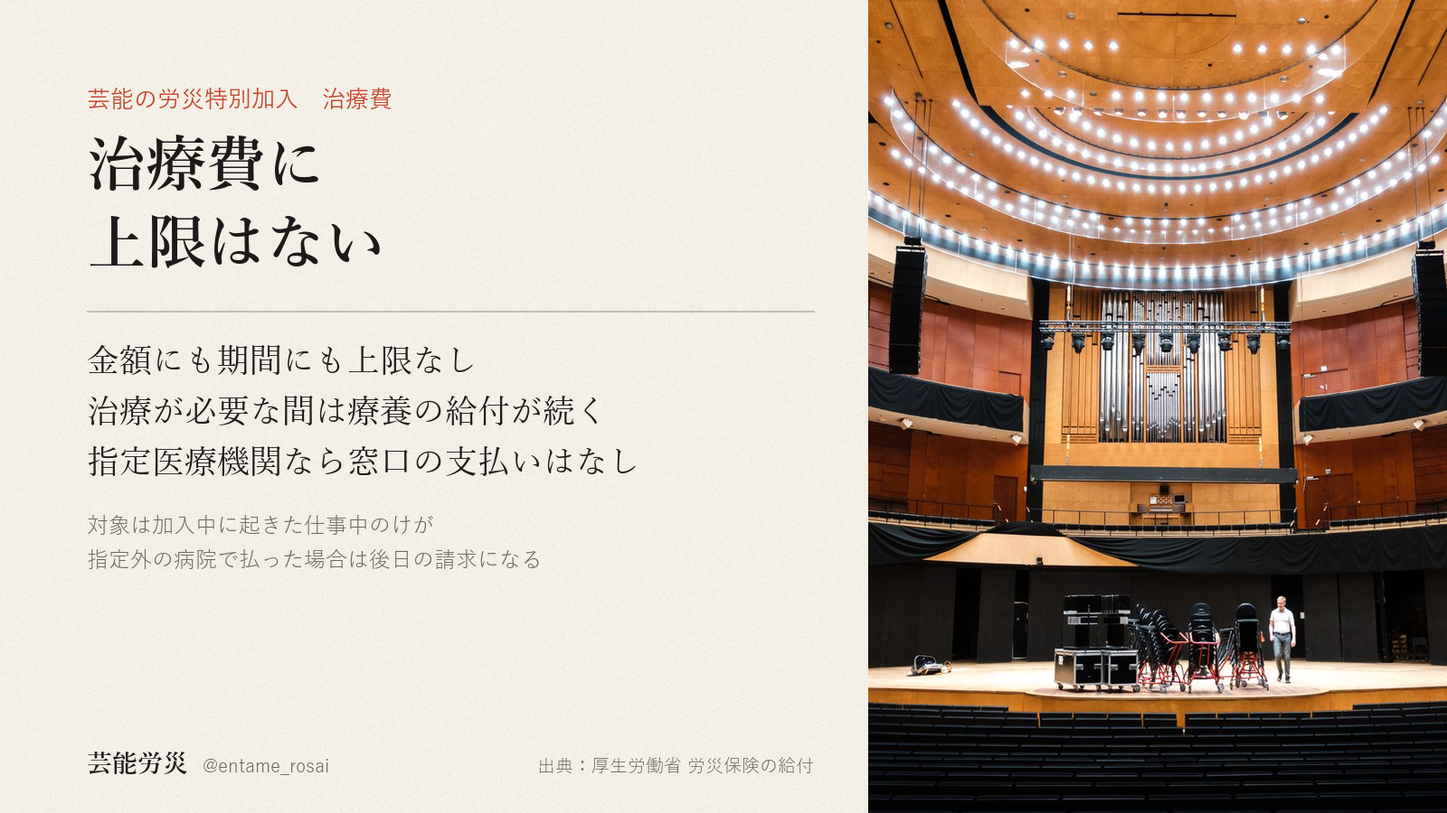
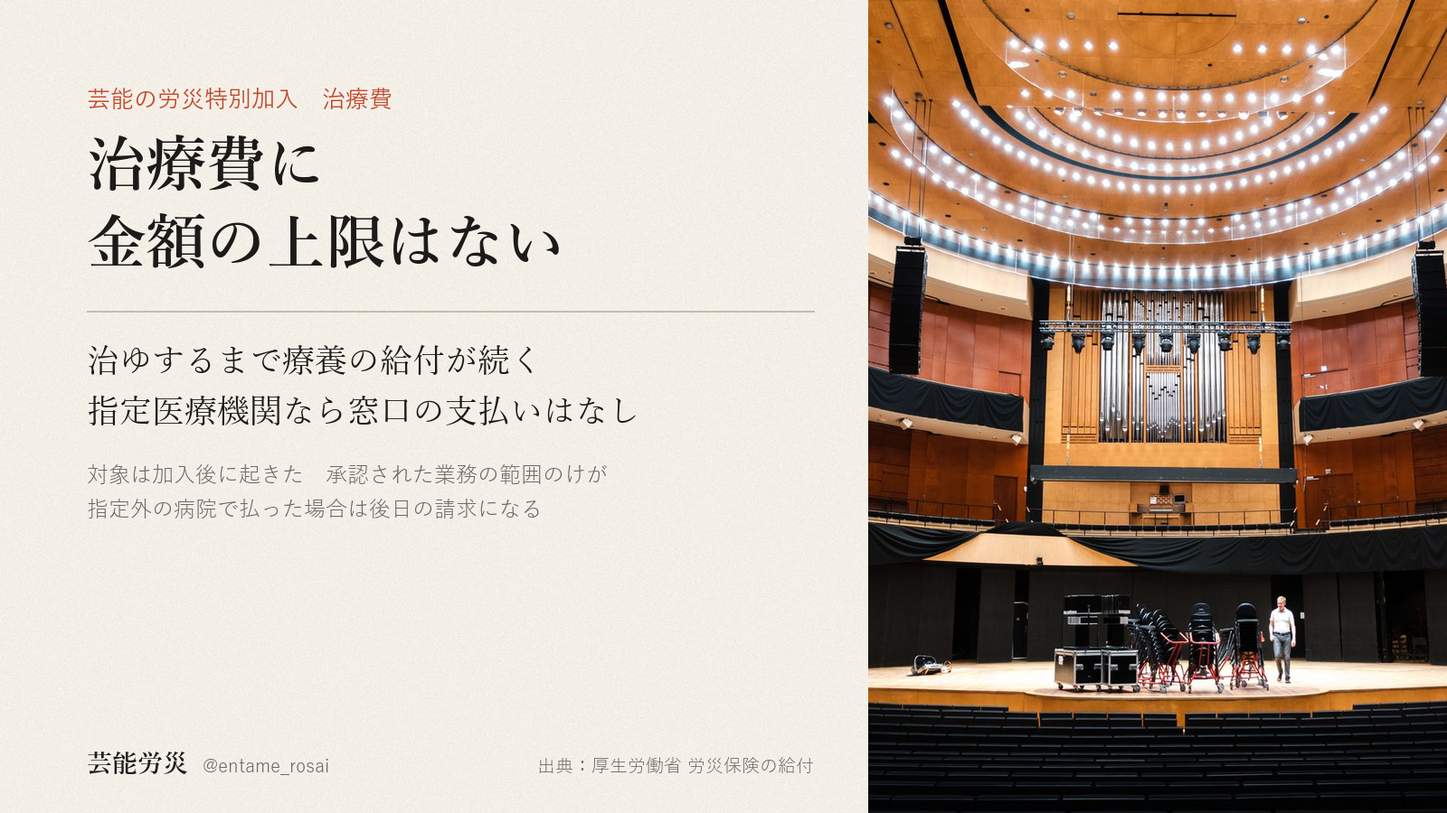
投稿デスク更新 2026-11-26 修正版

Changed region(s): [[0.0625, 0.4044, 0.4375, 0.7156], [0.0625, 0.2489, 0.4062, 0.3422]]

diff --git a/index.html b/index.html
@@ -351,7 +351,7 @@ dialog img{width:100%;height:auto;border-radius:18px;display:block}
 <div class="toast" id="toast">コピーしました</div>
 <dialog id="zoom"><img alt=""></dialog>
 
-<script id="desk-data" type="application/json">{"account":"@entame_rosai","days":[{"date":"2026-11-26","label":"11月26日（木）　今日","items":[{"key":"ig","date":"2026-11-01","label":"Instagram（@entame_rosai）","account":"@entame_rosai","text":"労災の特別加入は、申込のときに「何月から入るか」「何か月入るか」「給付基礎日額をいくらにするか」の3つを自分で決めます。\n\n何月から入るかは、11月1日時点の申込フォームでは2026年11月から2027年3月までの中から選べます。何か月入るかは1か月から。公演や撮影の期間に合わせて決められます。\n\n給付基礎日額は、補償の基準になる1日あたりの額です。3,500円から25,000円までの16段階から、実際の収入とは切り離して自分で選びます。\n\n毎月の支払いは、日額10,000円を選んだ場合で月1,600円。内訳は保険料912円、組合費500円、手数料188円です。ほかに入会事務手数料2,000円が初月だけかかるので、初月の支払いは3,600円です。保険料912円の部分は社会保険料控除の対象です。\n\nひとつ大事なことがあります。さかのぼって入ることはできません。補償は申込で選んだ月から始まり、それより前のけがは対象になりません。現場の予定が決まったら、先に手続きを済ませておく形です。\n\n手続きはプロフィール欄のサイトからできます。迷う点があれば、コメントに書いてもらえれば調べます。\n\n私たちは東京労働局長の承認を受けた労災保険特別加入団体で、加入の受付もしている当事者です。そのうえで書いています。特別加入を扱う団体は、私たちのほかにもあります。\n\n※給付の可否・金額は個別の状況により労働基準監督署が判断します。\n※金額は、給付基礎日額10,000円を選んだ場合の例です。","chars":628,"lines":16,"hashtags":0,"limit":0,"status":"生成済・未投稿（本人の投稿許可あり。Chrome で instagram.com を開く操作が承認待ちのまま5分応答がなく送信されず。次に本人がいるときに投稿する）","url":"","images":[{"name":"01.png","path":"assets/2026-11-01/instagram/01.png"},{"name":"02.png","path":"assets/2026-11-01/instagram/02.png"},{"name":"03.png","path":"assets/2026-11-01/instagram/03.png"},{"name":"04.png","path":"assets/2026-11-01/instagram/04.png"},{"name":"05.png","path":"assets/2026-11-01/instagram/05.png"},{"name":"06.png","path":"assets/2026-11-01/instagram/06.png"},{"name":"07.png","path":"assets/2026-11-01/instagram/07.png"}],"alt":"--- 1枚目 ---\n暗い劇場の舞台の縁に腰かけ、赤い客席を見ている人の後ろ姿の写真。文字：フリーランスの労災保険。加入の手続き。申込で決めることと毎月の支払い。さかのぼって入ることはできないので、先に手続きの中身をまとめました。芸能労災 @entame_rosai 01/07\n\n--- 2枚目 ---\n上半分は夕方の住宅街の路上で、ブームマイクを掲げる録音係とカメラを担ぐ撮影係の後ろ姿の写真。下は生成り色の紙面。文字：申込で決めること1。何月から入るか。開始月は申込のときに選びます。11月1日時点では、2026年11月から2027年3月までの中から選べます。補償は、選んだ月から始まります。出典：当団体申込フォーム（11月1日時点）。02/07\n\n--- 3枚目 ---\n右に、屋外のカメラ機材とモニターを操作する手の縦長写真。左は紙面。文字：申込で決めること2。何か月入るか。加入期間は1か月から選べます。公演や撮影の期間に合わせて決められます。何月から何か月かを申込のときにあわせて決めます。出典：当団体申込フォーム（11月1日時点）。03/07\n\n--- 4枚目 ---\n文字だけの紙面。申込で決めること3。16段階。給付基礎日額を3,500円から25,000円まで。4列の一覧：3,500、4,000、5,000、6,000、7,000、8,000、9,000、10,000（朱色）、12,000、14,000、16,000、18,000、20,000、22,000、24,000、25,000。単位は円。補償の基準になる1日あたりの額で、実際の収入とは切り離して自分で選びます。朱色の10,000円を次のページの例に使います。出典：労災保険法（特別加入）。04/07\n\n--- 5枚目 ---\n文字だけの紙面。毎月の支払い。日額10,000円なら月1,600円。表：内訳／月額。保険料 912円。組合費 500円。手数料 188円。合計 1,600円。ほかに入会事務手数料2,000円が初月だけかかります。初月の支払いは3,600円です。支払いのうち保険料912円の部分は、社会保険料控除の対象です。出典：当団体申込フォーム（11月1日時点）。05/07\n\n--- 6枚目 ---\n上に、黒い服のスタッフ2人が大きな機材ケースを運ぶ後ろ姿の写真の帯。下は紙面。文字：大事なこと。さかのぼって入ることはできない。補償の開始：申込で選んだ月から。それより前のけが：対象外。現場の予定が決まったら：先に手続き。手続きはプロフィール欄のサイトから。迷う点があれば、コメントに書いてもらえれば調べます。出典：当団体申込フォーム（11月1日時点）。06/07\n\n--- 7枚目 ---\n舞台袖の衣装ラックと、パイプ椅子の上に開いた台本の写真を暗くした全面。文字：入る月と期間は自分で決められます。何月から何か月入るか、日額をいくらにするか。申込のときに自分で選べます。迷う点があれば、コメントに書いてもらえれば調べます。私たちは東京労働局長の承認を受けた労災保険特別加入団体で、加入の受付もしている当事者です。そのうえで書いています。特別加入を扱う団体は、私たちのほかにもあります。※給付の可否・金額は個別の状況により労働基準監督署が判断します。※金額は、給付基礎日額10,000円を選んだ場合の例です。芸能労災 @entame_rosai 07/07","check":{"errors":[],"warns":[]},"made":"2026-11-01","slot":"2026-11-26"},{"key":"x","date":"2026-11-17","label":"X（@entame_rosai）","account":"@entame_rosai","text":"労災の特別加入は2024年11月から、企業から仕事を受けるフリーランス全般に広がりました。芸能の仕事は2021年4月から対象です。日額10,000円を選んだ場合、11月から5か月で支払総額10,000円（入会事務手数料込み）。（厚生労働省／げいのう労災 申込フォームの試算）","chars":137,"lines":1,"hashtags":0,"limit":140,"status":"（台帳に記載なし）","url":"","images":[{"name":"x_image.png","path":"assets/2026-11-17/x_image/x_image.png"}],"alt":"左は生成りの紙の地に文字、右は暗い舞台の床を紫のスポットライト3灯が照らす写真。文字：芸能の労災特別加入　対象の広がり。芸能の仕事は2021年4月から対象。2024年11月からは企業から仕事を受けるフリーランス全般に広がった。日額10,000円を選んだ場合　11月から5か月で支払総額10,000円（入会事務手数料込み）。金額はげいのう労災 申込フォームの試算。出典：厚生労働省。芸能労災 @entame_rosai","check":{"errors":[],"warns":[]},"made":"2026-11-17","slot":"2026-11-26"}]},{"date":"2026-11-27","label":"11月27日（金）　投稿予定","items":[{"key":"x","date":"2026-11-18","label":"X（@entame_rosai）","account":"@entame_rosai","text":"労災の特別加入で、加入中に起きた仕事中のけがの給付は、すぐに請求しなくても受け取れます。請求の期限は治療費と休業の給付が2年、障がいの給付が5年。数え始めは給付ごとに違い、治療費は払った翌日、障がいは症状が固定した翌日からです。（労災保険法第42条）","chars":125,"lines":1,"hashtags":0,"limit":140,"status":"（台帳に記載なし）","url":"","images":[{"name":"x_image.png","path":"assets/2026-11-18/x_image/x_image.png"}],"alt":"ライブ会場の客席後方で、音響担当の手がミキサー卓のつまみを操作している写真。奥のステージではギターを持った演奏者に照明が当たっている。左側の文字：芸能の労災特別加入　給付の請求。加入中のけがは　すぐでなくても請求できる。給付と請求の期限の表：治療費 2年、休業 2年、障がい 5年。加入前のけがは対象外。数え始めは給付ごとに違う。治療費は払った翌日から　障がいは症状固定の翌日から。出典：労災保険法第42条。芸能労災 @entame_rosai","check":{"errors":[],"warns":[]},"made":"2026-11-18","slot":"2026-11-27"}]},{"date":"2026-11-28","label":"11月28日（土）　投稿予定","items":[{"key":"x","date":"2026-11-19","label":"X（@entame_rosai）","account":"@entame_rosai","text":"労災の特別加入で仕事中にけがをしたとき、労災保険の指定医療機関で治療を受ければ、窓口での支払いはありません。指定外の病院でいったん払った場合も、あとからその費用を請求できます。治療費の扱いは、選んだ給付基礎日額で変わりません。（労災保険法第13条）","chars":124,"lines":1,"hashtags":0,"limit":140,"status":"（台帳に記載なし）","url":"","images":[{"name":"x_image.png","path":"assets/2026-11-19/x_image/x_image.png"}],"alt":"左は生成りの紙の地に文字、右は木の床に座るダンサーの足元の写真（黒いパンツにベージュのバレエシューズ）。文字は「芸能の労災特別加入　仕事中のけがの治療費」「指定医療機関なら　窓口での支払いなし」。左の列「指定医療機関　窓口で　支払いは　なし」、右の列「指定外の病院　いったん払う　その費用を　あとで請求」。下に「治療費の扱いは選んだ給付基礎日額で変わらない」「出典：労災保険法第13条」「芸能労災　@entame_rosai」。","check":{"errors":[],"warns":[]},"made":"2026-11-19","slot":"2026-11-28"}]},{"date":"2026-11-29","label":"11月29日（日）　投稿予定","items":[{"key":"x","date":"2026-11-20","label":"X（@entame_rosai）","account":"@entame_rosai","text":"労災の特別加入は、加入を始める月を申込のときに自分で選びます。対象は加入後の仕事中のけがで、さかのぼって加入はできません。日額10,000円を選んだ場合、5か月で支払総額10,000円です（手数料・入会事務手数料込み）。（労災保険法／当団体申込フォーム）","chars":127,"lines":1,"hashtags":0,"limit":140,"status":"（台帳に記載なし）","url":"","images":[{"name":"x_image.png","path":"assets/2026-11-20/x_image/x_image.png"}],"alt":"左は生成り色の紙の地に文字、右は写真。写真は、客席が無人の劇場で、舞台の縁に腰かけて客席のほうを向く人の後ろ姿。画像の文字：芸能の労災特別加入　加入の始まり／加入を始める月は　申込のときに選ぶ／対象は加入した後の仕事中のけが　さかのぼって加入はできない／日額10000円を選んだ場合　5か月で支払総額10000円（手数料込み）／芸能労災　@entame_rosai／出典：労災保険法／当団体申込フォームの試算","check":{"errors":[],"warns":[]},"made":"2026-11-20","slot":"2026-11-29"}]},{"date":"2026-11-30","label":"11月30日（月）　投稿予定","items":[{"key":"x","date":"2026-11-21","label":"X（@entame_rosai）","account":"@entame_rosai","text":"芸能の特別加入は、健康状態の審査がありません。年齢や持病、体を張る仕事を理由に断られることも、保険料が上がることもありません。対象は加入後の仕事中のけがや病気です。日額10,000円で5か月加入なら総額10,000円（入会事務手数料込み）。（労災保険法／当団体申込フォーム）","chars":137,"lines":1,"hashtags":0,"limit":140,"status":"（台帳に記載なし）","url":"","images":[{"name":"x_image.png","path":"assets/2026-11-21/x_image/x_image.png"}],"alt":"青いマットの稽古場で、黒い練習着の人が背中を向けて脚を大きく開き、ストレッチをしている写真。左側の生成りの紙面に文字。「芸能の労災特別加入　加入のとき」「健康状態の審査はない」。表「加入のとき／特別加入では」：健康状態の審査　なし。年齢や持病　断られない。体を張る仕事　保険料は同じ。対象になるけが　加入後の仕事中。「日額10000円で5か月加入した場合　総額10000円（入会事務手数料込み）」「出典：労災保険法／当団体申込フォームの試算」「芸能労災 @entame_rosai」","check":{"errors":[],"warns":[]},"made":"2026-11-21","slot":"2026-11-30"}]},{"date":"2026-12-01","label":"12月1日（火）　投稿予定","items":[{"key":"x","date":"2026-11-22","label":"X（@entame_rosai）","account":"@entame_rosai","text":"特別加入は給付基礎日額を3,500〜25,000円の16段階から選べます。休業・年金の給付と保険料はこの額で決まり、治療費は同じです。日額10,000円なら働けない日は4日目から1日8,000円、支払いは5か月で計10,000円（入会事務手数料込み）。（労災保険法／申込フォーム）","chars":140,"lines":1,"hashtags":0,"limit":140,"status":"（台帳に記載なし）","url":"","images":[{"name":"x_image.png","path":"assets/2026-11-22/x_image/x_image.png"}],"alt":"左は生成りの紙の上に文字、右は写真。写真は舞台袖の進行卓で、ヘッドセットと進行表に手を置く人の奥に、照明の当たった舞台と俳優が見える。画像の文字：労災の特別加入　給付基礎日額／16段階／3,500円から25,000円まで　自分で選べる／休業や年金の給付と保険料はこの額で決まり　治療費は変わらない／日額10,000円なら働けない日は4日目から1日8,000円／芸能労災 @entame_rosai／出典：労災保険法／当団体申込フォーム","check":{"errors":[],"warns":[]},"made":"2026-11-22","slot":"2026-12-01"}]},{"date":"2026-12-02","label":"12月2日（水）　投稿予定","items":[{"key":"x","date":"2026-11-23","label":"X（@entame_rosai）","account":"@entame_rosai","text":"労災の特別加入の保険料率は、芸能の仕事なら職種で変わりません。俳優もスタントも裏方も0.3%です。支払う額は日額と加入月数で決まり、組合費・手数料・入会事務手数料を含む総額は、申込フォームの試算で確認できます。（厚生労働省 労災保険率）","chars":118,"lines":1,"hashtags":0,"limit":140,"status":"（台帳に記載なし）","url":"","images":[{"name":"x_image.png","path":"assets/2026-11-23/x_image/x_image.png"}],"alt":"楽屋の写真。衣装が掛かったハンガーラックの前に、台本が開いて置かれたパイプ椅子。左は紙色の表で、見出しは「保険料率は職種で変わらない」。俳優 0.3%、スタント 0.3%、裏方 0.3%。支払う額は日額と加入月数で決まる。総額は申込フォームの試算で確認できる。出典：厚生労働省 労災保険率。","check":{"errors":[],"warns":["競合の調査由来かもしれない数字/語: 0.3%　… …芸能の仕事なら職種で変わりません。俳優もスタントも裏方も0.3%です。支払う額は日額と加入月数で決まり、組合費・手数料・…"]},"made":"2026-11-23","slot":"2026-12-02"}]},{"date":"2026-12-03","label":"12月3日（木）　投稿予定","items":[{"key":"x","date":"2026-11-24","label":"X（@entame_rosai）","account":"@entame_rosai","text":"労災の特別加入で、仕事中のけがによる障がいが残ったときの給付は、障がい等級で形が変わります。1〜7級は年金、8〜14級は一時金です。年金は、決まった時期に定期的に支払われます。（労災保険法）","chars":95,"lines":1,"hashtags":0,"limit":140,"status":"（台帳に記載なし）","url":"","images":[{"name":"x_image.png","path":"assets/2026-11-24/x_image/x_image.png"}],"alt":"暗い舞台袖で、台本のような冊子を開いて読む人の後ろ姿の写真。左側に文字。「芸能の労災特別加入　障がいが残ったとき　障がいの給付は等級で形が変わる　1〜7級は年金　8〜14級は一時金　年金は定期的に支払われる　対象は加入中に起きた仕事中のけが　障がい等級は医師の診断をもとに労働基準監督署が決める　出典：労災保険法」","check":{"errors":[],"warns":[]},"made":"2026-11-24","slot":"2026-12-03"}]},{"date":"2026-12-04","label":"12月4日（金）　投稿予定","items":[{"key":"x","date":"2026-11-25","label":"X（@entame_rosai）","account":"@entame_rosai","text":"労災の特別加入で受けられる給付は7種類あります。療養、休業、傷病年金、障がい、介護、遺族、葬祭料。治療から、働けない間の補償、後遺症、その後の暮らしまで、仕事中のけがの先を支える制度です。（厚生労働省 労災保険の給付）","chars":109,"lines":1,"hashtags":0,"limit":140,"status":"（台帳に記載なし）","url":"","images":[{"name":"x_image.png","path":"assets/2026-11-25/x_image/x_image.png"}],"alt":"劇場で脚立に乗り、客席上部の照明を調整する人の後ろ姿の写真。右側に写真、左側に文字。「芸能の労災特別加入　受けられる給付　7種類　療養　休業　傷病年金　障がい　介護　遺族　葬祭料　治療から　働けない間の補償　後遺症まで　仕事中のけがの先を支える制度　出典：厚生労働省 労災保険の給付」","check":{"errors":[],"warns":[]},"made":"2026-11-25","slot":"2026-12-04"}]},{"date":"2026-12-05","label":"12月5日（土）　投稿予定","items":[{"key":"x","date":"2026-11-26","label":"X（@entame_rosai）","account":"@entame_rosai","text":"労災の特別加入で、仕事中のけがの治療費には、金額の上限も期間の上限もありません。指定医療機関なら窓口の支払いはなく、治療が必要な間は療養の給付が続きます。長引く治療でも、費用の心配を先に置かなくていい仕組みです。（厚生労働省 労災保険の給付）","chars":121,"lines":1,"hashtags":0,"limit":140,"status":"（台帳に記載なし）","url":"","images":[{"name":"x_image.png","path":"assets/2026-11-26/x_image/x_image.png"}],"alt":"無人の大ホールの舞台。ステージ上に積まれた椅子と機材ケースの横を、スタッフが一人歩いている。左側の文字：芸能の労災特別加入　治療費。治療費に上限はない。金額にも期間にも上限なし。治療が必要な間は療養の給付が続く。指定医療機関なら窓口の支払いはなし。対象は加入中に起きた仕事中のけが。指定外の病院で払った場合は後日の請求になる。出典：厚生労働省 労災保険の給付。芸能労災 @entame_rosai","check":{"errors":[],"warns":[]},"made":"2026-11-26","slot":"2026-12-05"}]}],"todo":[{"due":"今日","who":"作業者","title":"X（@entame_rosai）の今日の投稿","detail":"画像1枚を添付 → 代替テキストを入れる → 本文を貼る、の順。代替テキストは直近の投稿で入っていません。X は投稿後に足せません。","cid":"c-2026-11-17-x"},{"due":"今日","who":"作業者","title":"Instagram を1本投稿（11/1（日）作成の分）","detail":"画像7枚をこの順で添付し、1枚ずつ代替テキストを入れる。未投稿は1本。前回の公開から1週間あけて1本ずつ。","cid":"c-2026-11-01-ig"},{"due":"未公開のまま","who":"矢部さん","title":"note の記事を公開（09/18作成）","detail":"このデスクには載っていません（note は矢部さんの手元の下書き）。公開するときは見出し画像を必ず設定。","cid":""},{"due":"未公開のまま","who":"矢部さん","title":"note の記事を公開（10/09作成）","detail":"このデスクには載っていません（note は矢部さんの手元の下書き）。公開するときは見出し画像を必ず設定。","cid":""},{"due":"投稿のたび","who":"作業者","title":"投稿URLと名前を、そのカードの欄に保存","detail":"記録が集まらないと、何が出たかを後から確かめられません。","cid":""}],"builtAt":"2026-11-26 08:33","today":"2026-11-26","followers":{"date":"10-13","x":5,"ig":21,"note":0},"hero":"assets/hero.jpg","endpoint":"https://script.google.com/macros/s/AKfycbxhxM75PszpPOX_HDJ4yuBmQSqu1b7CXq2sbCxlqTZ_TyF8hROH2MyKnYNU11avb8UQCA/exec"}</script>
+<script id="desk-data" type="application/json">{"account":"@entame_rosai","days":[{"date":"2026-11-26","label":"11月26日（木）　今日","items":[{"key":"ig","date":"2026-11-01","label":"Instagram（@entame_rosai）","account":"@entame_rosai","text":"労災の特別加入は、申込のときに「何月から入るか」「何か月入るか」「給付基礎日額をいくらにするか」の3つを自分で決めます。\n\n何月から入るかは、11月1日時点の申込フォームでは2026年11月から2027年3月までの中から選べます。何か月入るかは1か月から。公演や撮影の期間に合わせて決められます。\n\n給付基礎日額は、補償の基準になる1日あたりの額です。3,500円から25,000円までの16段階から、実際の収入とは切り離して自分で選びます。\n\n毎月の支払いは、日額10,000円を選んだ場合で月1,600円。内訳は保険料912円、組合費500円、手数料188円です。ほかに入会事務手数料2,000円が初月だけかかるので、初月の支払いは3,600円です。保険料912円の部分は社会保険料控除の対象です。\n\nひとつ大事なことがあります。さかのぼって入ることはできません。補償は申込で選んだ月から始まり、それより前のけがは対象になりません。現場の予定が決まったら、先に手続きを済ませておく形です。\n\n手続きはプロフィール欄のサイトからできます。迷う点があれば、コメントに書いてもらえれば調べます。\n\n私たちは東京労働局長の承認を受けた労災保険特別加入団体で、加入の受付もしている当事者です。そのうえで書いています。特別加入を扱う団体は、私たちのほかにもあります。\n\n※給付の可否・金額は個別の状況により労働基準監督署が判断します。\n※金額は、給付基礎日額10,000円を選んだ場合の例です。","chars":628,"lines":16,"hashtags":0,"limit":0,"status":"生成済・未投稿（本人の投稿許可あり。Chrome で instagram.com を開く操作が承認待ちのまま5分応答がなく送信されず。次に本人がいるときに投稿する）","url":"","images":[{"name":"01.png","path":"assets/2026-11-01/instagram/01.png"},{"name":"02.png","path":"assets/2026-11-01/instagram/02.png"},{"name":"03.png","path":"assets/2026-11-01/instagram/03.png"},{"name":"04.png","path":"assets/2026-11-01/instagram/04.png"},{"name":"05.png","path":"assets/2026-11-01/instagram/05.png"},{"name":"06.png","path":"assets/2026-11-01/instagram/06.png"},{"name":"07.png","path":"assets/2026-11-01/instagram/07.png"}],"alt":"--- 1枚目 ---\n暗い劇場の舞台の縁に腰かけ、赤い客席を見ている人の後ろ姿の写真。文字：フリーランスの労災保険。加入の手続き。申込で決めることと毎月の支払い。さかのぼって入ることはできないので、先に手続きの中身をまとめました。芸能労災 @entame_rosai 01/07\n\n--- 2枚目 ---\n上半分は夕方の住宅街の路上で、ブームマイクを掲げる録音係とカメラを担ぐ撮影係の後ろ姿の写真。下は生成り色の紙面。文字：申込で決めること1。何月から入るか。開始月は申込のときに選びます。11月1日時点では、2026年11月から2027年3月までの中から選べます。補償は、選んだ月から始まります。出典：当団体申込フォーム（11月1日時点）。02/07\n\n--- 3枚目 ---\n右に、屋外のカメラ機材とモニターを操作する手の縦長写真。左は紙面。文字：申込で決めること2。何か月入るか。加入期間は1か月から選べます。公演や撮影の期間に合わせて決められます。何月から何か月かを申込のときにあわせて決めます。出典：当団体申込フォーム（11月1日時点）。03/07\n\n--- 4枚目 ---\n文字だけの紙面。申込で決めること3。16段階。給付基礎日額を3,500円から25,000円まで。4列の一覧：3,500、4,000、5,000、6,000、7,000、8,000、9,000、10,000（朱色）、12,000、14,000、16,000、18,000、20,000、22,000、24,000、25,000。単位は円。補償の基準になる1日あたりの額で、実際の収入とは切り離して自分で選びます。朱色の10,000円を次のページの例に使います。出典：労災保険法（特別加入）。04/07\n\n--- 5枚目 ---\n文字だけの紙面。毎月の支払い。日額10,000円なら月1,600円。表：内訳／月額。保険料 912円。組合費 500円。手数料 188円。合計 1,600円。ほかに入会事務手数料2,000円が初月だけかかります。初月の支払いは3,600円です。支払いのうち保険料912円の部分は、社会保険料控除の対象です。出典：当団体申込フォーム（11月1日時点）。05/07\n\n--- 6枚目 ---\n上に、黒い服のスタッフ2人が大きな機材ケースを運ぶ後ろ姿の写真の帯。下は紙面。文字：大事なこと。さかのぼって入ることはできない。補償の開始：申込で選んだ月から。それより前のけが：対象外。現場の予定が決まったら：先に手続き。手続きはプロフィール欄のサイトから。迷う点があれば、コメントに書いてもらえれば調べます。出典：当団体申込フォーム（11月1日時点）。06/07\n\n--- 7枚目 ---\n舞台袖の衣装ラックと、パイプ椅子の上に開いた台本の写真を暗くした全面。文字：入る月と期間は自分で決められます。何月から何か月入るか、日額をいくらにするか。申込のときに自分で選べます。迷う点があれば、コメントに書いてもらえれば調べます。私たちは東京労働局長の承認を受けた労災保険特別加入団体で、加入の受付もしている当事者です。そのうえで書いています。特別加入を扱う団体は、私たちのほかにもあります。※給付の可否・金額は個別の状況により労働基準監督署が判断します。※金額は、給付基礎日額10,000円を選んだ場合の例です。芸能労災 @entame_rosai 07/07","check":{"errors":[],"warns":[]},"made":"2026-11-01","slot":"2026-11-26"},{"key":"x","date":"2026-11-17","label":"X（@entame_rosai）","account":"@entame_rosai","text":"労災の特別加入は2024年11月から、企業から仕事を受けるフリーランス全般に広がりました。芸能の仕事は2021年4月から対象です。日額10,000円を選んだ場合、11月から5か月で支払総額10,000円（入会事務手数料込み）。（厚生労働省／げいのう労災 申込フォームの試算）","chars":137,"lines":1,"hashtags":0,"limit":140,"status":"（台帳に記載なし）","url":"","images":[{"name":"x_image.png","path":"assets/2026-11-17/x_image/x_image.png"}],"alt":"左は生成りの紙の地に文字、右は暗い舞台の床を紫のスポットライト3灯が照らす写真。文字：芸能の労災特別加入　対象の広がり。芸能の仕事は2021年4月から対象。2024年11月からは企業から仕事を受けるフリーランス全般に広がった。日額10,000円を選んだ場合　11月から5か月で支払総額10,000円（入会事務手数料込み）。金額はげいのう労災 申込フォームの試算。出典：厚生労働省。芸能労災 @entame_rosai","check":{"errors":[],"warns":[]},"made":"2026-11-17","slot":"2026-11-26"}]},{"date":"2026-11-27","label":"11月27日（金）　投稿予定","items":[{"key":"x","date":"2026-11-18","label":"X（@entame_rosai）","account":"@entame_rosai","text":"労災の特別加入で、加入中に起きた仕事中のけがの給付は、すぐに請求しなくても受け取れます。請求の期限は治療費と休業の給付が2年、障がいの給付が5年。数え始めは給付ごとに違い、治療費は払った翌日、障がいは症状が固定した翌日からです。（労災保険法第42条）","chars":125,"lines":1,"hashtags":0,"limit":140,"status":"（台帳に記載なし）","url":"","images":[{"name":"x_image.png","path":"assets/2026-11-18/x_image/x_image.png"}],"alt":"ライブ会場の客席後方で、音響担当の手がミキサー卓のつまみを操作している写真。奥のステージではギターを持った演奏者に照明が当たっている。左側の文字：芸能の労災特別加入　給付の請求。加入中のけがは　すぐでなくても請求できる。給付と請求の期限の表：治療費 2年、休業 2年、障がい 5年。加入前のけがは対象外。数え始めは給付ごとに違う。治療費は払った翌日から　障がいは症状固定の翌日から。出典：労災保険法第42条。芸能労災 @entame_rosai","check":{"errors":[],"warns":[]},"made":"2026-11-18","slot":"2026-11-27"}]},{"date":"2026-11-28","label":"11月28日（土）　投稿予定","items":[{"key":"x","date":"2026-11-19","label":"X（@entame_rosai）","account":"@entame_rosai","text":"労災の特別加入で仕事中にけがをしたとき、労災保険の指定医療機関で治療を受ければ、窓口での支払いはありません。指定外の病院でいったん払った場合も、あとからその費用を請求できます。治療費の扱いは、選んだ給付基礎日額で変わりません。（労災保険法第13条）","chars":124,"lines":1,"hashtags":0,"limit":140,"status":"（台帳に記載なし）","url":"","images":[{"name":"x_image.png","path":"assets/2026-11-19/x_image/x_image.png"}],"alt":"左は生成りの紙の地に文字、右は木の床に座るダンサーの足元の写真（黒いパンツにベージュのバレエシューズ）。文字は「芸能の労災特別加入　仕事中のけがの治療費」「指定医療機関なら　窓口での支払いなし」。左の列「指定医療機関　窓口で　支払いは　なし」、右の列「指定外の病院　いったん払う　その費用を　あとで請求」。下に「治療費の扱いは選んだ給付基礎日額で変わらない」「出典：労災保険法第13条」「芸能労災　@entame_rosai」。","check":{"errors":[],"warns":[]},"made":"2026-11-19","slot":"2026-11-28"}]},{"date":"2026-11-29","label":"11月29日（日）　投稿予定","items":[{"key":"x","date":"2026-11-20","label":"X（@entame_rosai）","account":"@entame_rosai","text":"労災の特別加入は、加入を始める月を申込のときに自分で選びます。対象は加入後の仕事中のけがで、さかのぼって加入はできません。日額10,000円を選んだ場合、5か月で支払総額10,000円です（手数料・入会事務手数料込み）。（労災保険法／当団体申込フォーム）","chars":127,"lines":1,"hashtags":0,"limit":140,"status":"（台帳に記載なし）","url":"","images":[{"name":"x_image.png","path":"assets/2026-11-20/x_image/x_image.png"}],"alt":"左は生成り色の紙の地に文字、右は写真。写真は、客席が無人の劇場で、舞台の縁に腰かけて客席のほうを向く人の後ろ姿。画像の文字：芸能の労災特別加入　加入の始まり／加入を始める月は　申込のときに選ぶ／対象は加入した後の仕事中のけが　さかのぼって加入はできない／日額10000円を選んだ場合　5か月で支払総額10000円（手数料込み）／芸能労災　@entame_rosai／出典：労災保険法／当団体申込フォームの試算","check":{"errors":[],"warns":[]},"made":"2026-11-20","slot":"2026-11-29"}]},{"date":"2026-11-30","label":"11月30日（月）　投稿予定","items":[{"key":"x","date":"2026-11-21","label":"X（@entame_rosai）","account":"@entame_rosai","text":"芸能の特別加入は、健康状態の審査がありません。年齢や持病、体を張る仕事を理由に断られることも、保険料が上がることもありません。対象は加入後の仕事中のけがや病気です。日額10,000円で5か月加入なら総額10,000円（入会事務手数料込み）。（労災保険法／当団体申込フォーム）","chars":137,"lines":1,"hashtags":0,"limit":140,"status":"（台帳に記載なし）","url":"","images":[{"name":"x_image.png","path":"assets/2026-11-21/x_image/x_image.png"}],"alt":"青いマットの稽古場で、黒い練習着の人が背中を向けて脚を大きく開き、ストレッチをしている写真。左側の生成りの紙面に文字。「芸能の労災特別加入　加入のとき」「健康状態の審査はない」。表「加入のとき／特別加入では」：健康状態の審査　なし。年齢や持病　断られない。体を張る仕事　保険料は同じ。対象になるけが　加入後の仕事中。「日額10000円で5か月加入した場合　総額10000円（入会事務手数料込み）」「出典：労災保険法／当団体申込フォームの試算」「芸能労災 @entame_rosai」","check":{"errors":[],"warns":[]},"made":"2026-11-21","slot":"2026-11-30"}]},{"date":"2026-12-01","label":"12月1日（火）　投稿予定","items":[{"key":"x","date":"2026-11-22","label":"X（@entame_rosai）","account":"@entame_rosai","text":"特別加入は給付基礎日額を3,500〜25,000円の16段階から選べます。休業・年金の給付と保険料はこの額で決まり、治療費は同じです。日額10,000円なら働けない日は4日目から1日8,000円、支払いは5か月で計10,000円（入会事務手数料込み）。（労災保険法／申込フォーム）","chars":140,"lines":1,"hashtags":0,"limit":140,"status":"（台帳に記載なし）","url":"","images":[{"name":"x_image.png","path":"assets/2026-11-22/x_image/x_image.png"}],"alt":"左は生成りの紙の上に文字、右は写真。写真は舞台袖の進行卓で、ヘッドセットと進行表に手を置く人の奥に、照明の当たった舞台と俳優が見える。画像の文字：労災の特別加入　給付基礎日額／16段階／3,500円から25,000円まで　自分で選べる／休業や年金の給付と保険料はこの額で決まり　治療費は変わらない／日額10,000円なら働けない日は4日目から1日8,000円／芸能労災 @entame_rosai／出典：労災保険法／当団体申込フォーム","check":{"errors":[],"warns":[]},"made":"2026-11-22","slot":"2026-12-01"}]},{"date":"2026-12-02","label":"12月2日（水）　投稿予定","items":[{"key":"x","date":"2026-11-23","label":"X（@entame_rosai）","account":"@entame_rosai","text":"労災の特別加入の保険料率は、芸能の仕事なら職種で変わりません。俳優もスタントも裏方も0.3%です。支払う額は日額と加入月数で決まり、組合費・手数料・入会事務手数料を含む総額は、申込フォームの試算で確認できます。（厚生労働省 労災保険率）","chars":118,"lines":1,"hashtags":0,"limit":140,"status":"（台帳に記載なし）","url":"","images":[{"name":"x_image.png","path":"assets/2026-11-23/x_image/x_image.png"}],"alt":"楽屋の写真。衣装が掛かったハンガーラックの前に、台本が開いて置かれたパイプ椅子。左は紙色の表で、見出しは「保険料率は職種で変わらない」。俳優 0.3%、スタント 0.3%、裏方 0.3%。支払う額は日額と加入月数で決まる。総額は申込フォームの試算で確認できる。出典：厚生労働省 労災保険率。","check":{"errors":[],"warns":["競合の調査由来かもしれない数字/語: 0.3%　… …芸能の仕事なら職種で変わりません。俳優もスタントも裏方も0.3%です。支払う額は日額と加入月数で決まり、組合費・手数料・…"]},"made":"2026-11-23","slot":"2026-12-02"}]},{"date":"2026-12-03","label":"12月3日（木）　投稿予定","items":[{"key":"x","date":"2026-11-24","label":"X（@entame_rosai）","account":"@entame_rosai","text":"労災の特別加入で、仕事中のけがによる障がいが残ったときの給付は、障がい等級で形が変わります。1〜7級は年金、8〜14級は一時金です。年金は、決まった時期に定期的に支払われます。（労災保険法）","chars":95,"lines":1,"hashtags":0,"limit":140,"status":"（台帳に記載なし）","url":"","images":[{"name":"x_image.png","path":"assets/2026-11-24/x_image/x_image.png"}],"alt":"暗い舞台袖で、台本のような冊子を開いて読む人の後ろ姿の写真。左側に文字。「芸能の労災特別加入　障がいが残ったとき　障がいの給付は等級で形が変わる　1〜7級は年金　8〜14級は一時金　年金は定期的に支払われる　対象は加入中に起きた仕事中のけが　障がい等級は医師の診断をもとに労働基準監督署が決める　出典：労災保険法」","check":{"errors":[],"warns":[]},"made":"2026-11-24","slot":"2026-12-03"}]},{"date":"2026-12-04","label":"12月4日（金）　投稿予定","items":[{"key":"x","date":"2026-11-25","label":"X（@entame_rosai）","account":"@entame_rosai","text":"労災の特別加入で受けられる給付は7種類あります。療養、休業、傷病年金、障がい、介護、遺族、葬祭料。治療から、働けない間の補償、後遺症、その後の暮らしまで、仕事中のけがの先を支える制度です。（厚生労働省 労災保険の給付）","chars":109,"lines":1,"hashtags":0,"limit":140,"status":"（台帳に記載なし）","url":"","images":[{"name":"x_image.png","path":"assets/2026-11-25/x_image/x_image.png"}],"alt":"劇場で脚立に乗り、客席上部の照明を調整する人の後ろ姿の写真。右側に写真、左側に文字。「芸能の労災特別加入　受けられる給付　7種類　療養　休業　傷病年金　障がい　介護　遺族　葬祭料　治療から　働けない間の補償　後遺症まで　仕事中のけがの先を支える制度　出典：厚生労働省 労災保険の給付」","check":{"errors":[],"warns":[]},"made":"2026-11-25","slot":"2026-12-04"}]},{"date":"2026-12-05","label":"12月5日（土）　投稿予定","items":[{"key":"x","date":"2026-11-26","label":"X（@entame_rosai）","account":"@entame_rosai","text":"労災の特別加入で、仕事中のけがの治療費には金額の上限がありません。治ゆするまで療養の給付が続き、指定医療機関なら窓口の支払いもありません。対象は、加入後に起きた、承認された業務の範囲のけがです。（厚生労働省 労災保険の給付）","chars":112,"lines":1,"hashtags":0,"limit":140,"status":"（台帳に記載なし）","url":"","images":[{"name":"x_image.png","path":"assets/2026-11-26/x_image/x_image.png"}],"alt":"無人の大ホールの舞台。ステージ上に積まれた椅子と機材ケースの横を、スタッフが一人歩いている。左側の文字：芸能の労災特別加入　治療費。治療費に金額の上限はない。治ゆするまで療養の給付が続く。指定医療機関なら窓口の支払いはなし。対象は加入後に起きた　承認された業務の範囲のけが。指定外の病院で払った場合は後日の請求になる。出典：厚生労働省 労災保険の給付。芸能労災 @entame_rosai","check":{"errors":[],"warns":[]},"made":"2026-11-26","slot":"2026-12-05"}]}],"todo":[{"due":"今日","who":"作業者","title":"X（@entame_rosai）の今日の投稿","detail":"画像1枚を添付 → 代替テキストを入れる → 本文を貼る、の順。代替テキストは直近の投稿で入っていません。X は投稿後に足せません。","cid":"c-2026-11-17-x"},{"due":"今日","who":"作業者","title":"Instagram を1本投稿（11/1（日）作成の分）","detail":"画像7枚をこの順で添付し、1枚ずつ代替テキストを入れる。未投稿は1本。前回の公開から1週間あけて1本ずつ。","cid":"c-2026-11-01-ig"},{"due":"未公開のまま","who":"矢部さん","title":"note の記事を公開（09/18作成）","detail":"このデスクには載っていません（note は矢部さんの手元の下書き）。公開するときは見出し画像を必ず設定。","cid":""},{"due":"未公開のまま","who":"矢部さん","title":"note の記事を公開（10/09作成）","detail":"このデスクには載っていません（note は矢部さんの手元の下書き）。公開するときは見出し画像を必ず設定。","cid":""},{"due":"投稿のたび","who":"作業者","title":"投稿URLと名前を、そのカードの欄に保存","detail":"記録が集まらないと、何が出たかを後から確かめられません。","cid":""}],"builtAt":"2026-11-26 08:34","today":"2026-11-26","followers":{"date":"10-13","x":5,"ig":21,"note":0},"hero":"assets/hero.jpg","endpoint":"https://script.google.com/macros/s/AKfycbxhxM75PszpPOX_HDJ4yuBmQSqu1b7CXq2sbCxlqTZ_TyF8hROH2MyKnYNU11avb8UQCA/exec"}</script>
 <script>
 (function(){
   var DATA = JSON.parse(document.getElementById('desk-data').textContent);
